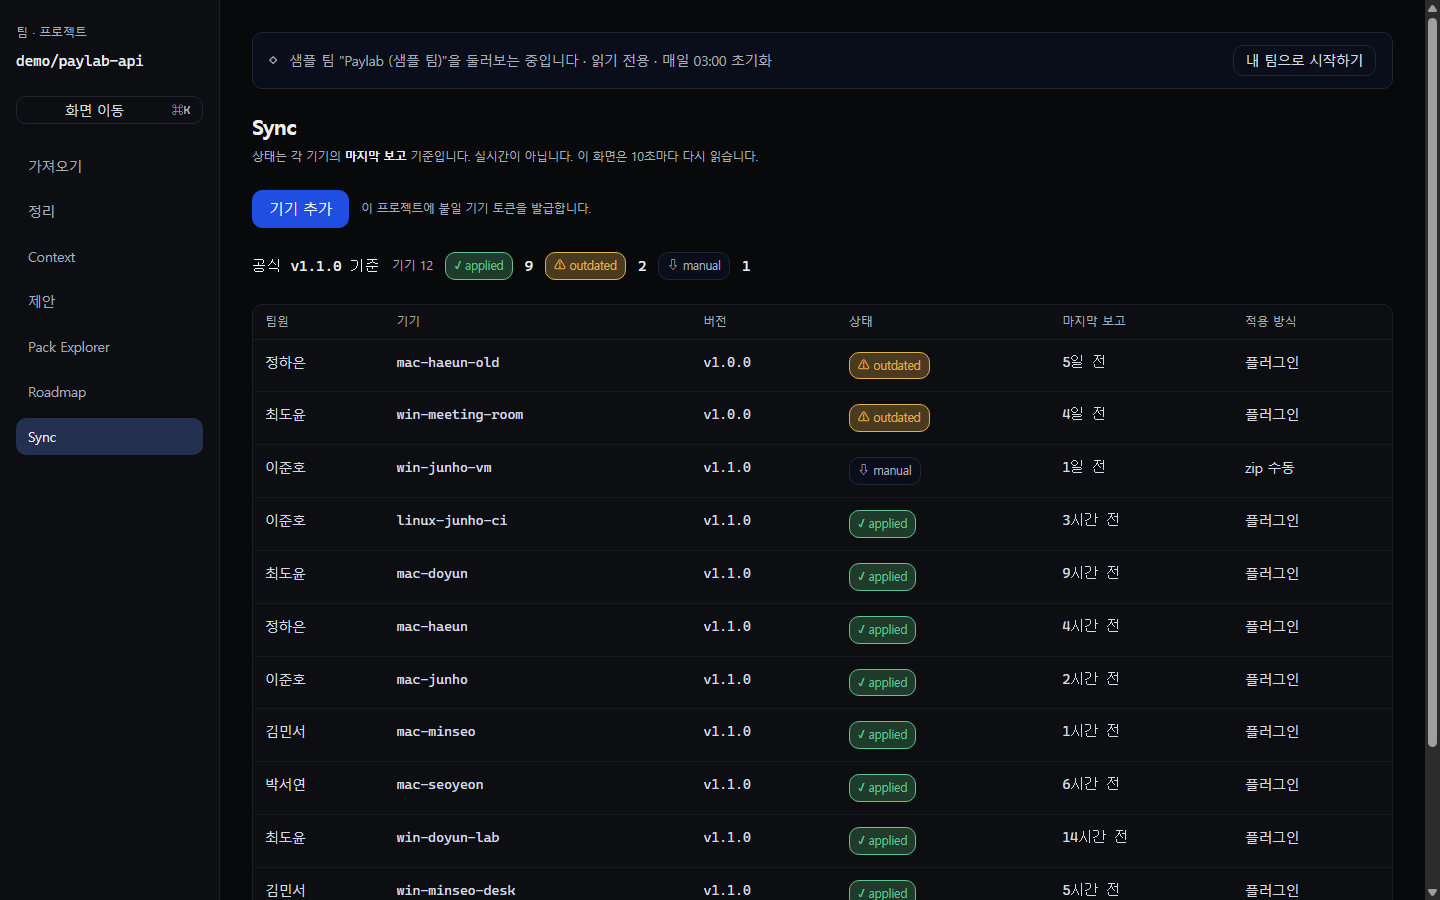
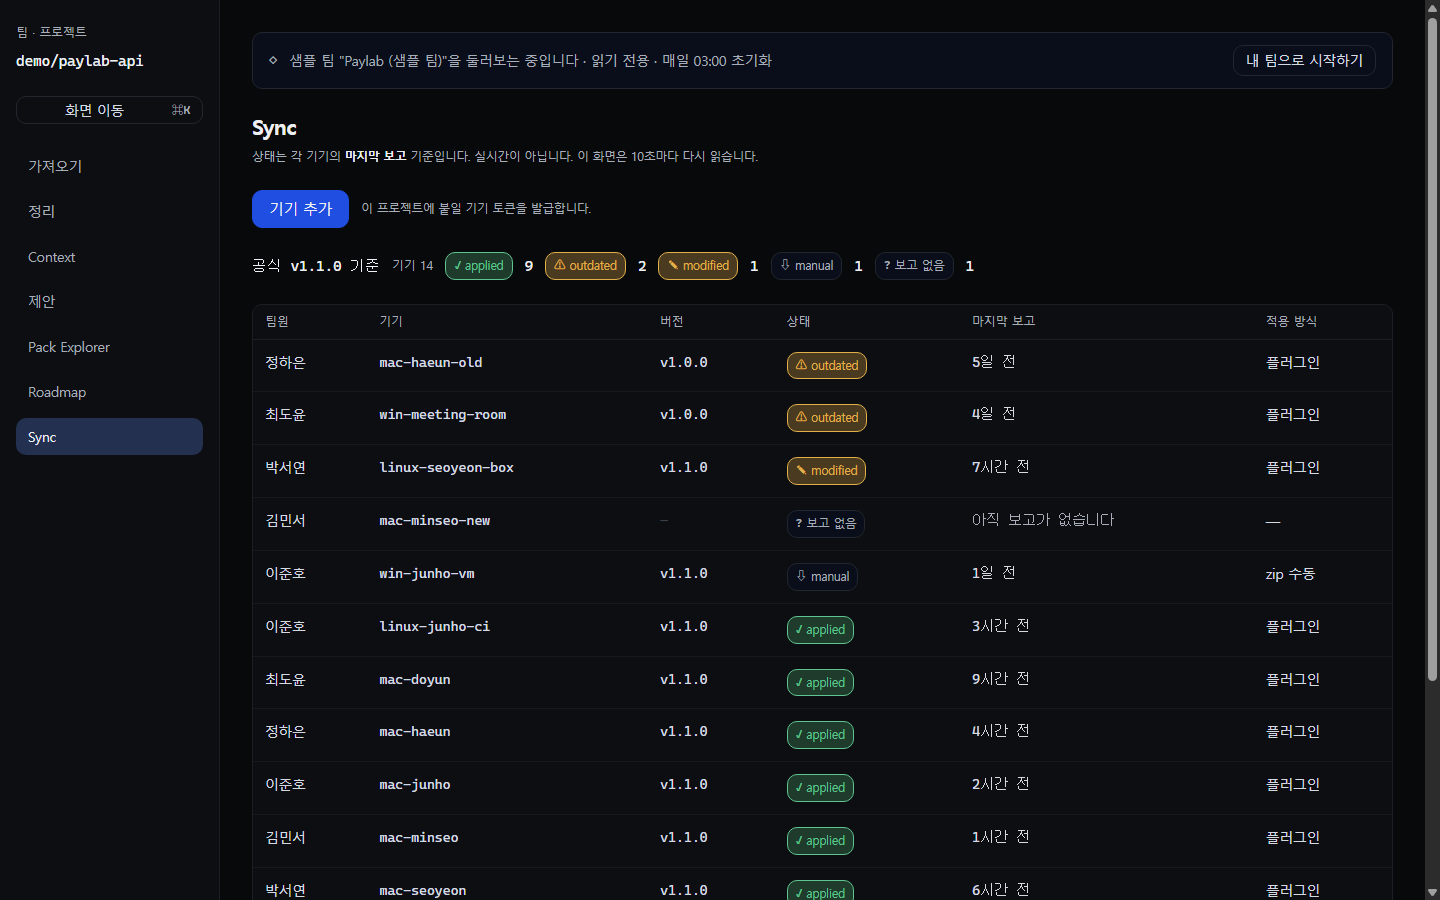
feat(demo): 화면 9 가 sync 상태 5종을 전부 보여 준다 (FINDINGS 162)
문제 — 데모의 Sync 화면이 `applied 9 · outdated 2 · manual 1` 셋만 그렸다.
남은 둘(`modified`·`unknown`)은 스키마·서버·화면이 이미 다 그릴 수 있는데
씨앗이 한 번도 그 길로 안 들어갔다. 죽은 것은 코드가 아니라 **픽스처**다.
그중 `modified`(공식 버전인데 파일이 손으로 고쳐졌다)는 이 제품이 무엇을
잡아 주는지를 한 줄로 말하는 상태인데, 심사위원이 보는 첫 표에 없었다.

바꾼 것 — `fixtures/seed/demo.json` 에 기기 두 줄. 12 → 14:
  · `linux-seoyeon-box` — `modified` · 공식 버전
  · `mac-minseo-new`    — `report: null` → 서버가 `unknown` 을 매긴다
기존 12줄은 안 건드렸다. 제품 코드 0줄 — 배선은 이미 살아 있었다
(`statusOfDevice()` · `NO_REPORT_STATUS` · `SYNC_CHIP`/`SYNC_MEANING`/`SYNC_APPLY`).

게이트 — `demo-guest.test.ts` 화면 9 시험이 넷을 잰다:
  ① 다섯 수(9·2·1·1·1) ② **`SYNC_STATUSES` 를 돌며 종류마다 0보다 큰가**
  ③ `unknown` 행은 버전·보고 시각이 둘 다 null ④ `modified` 행은 공식 버전
②가 본체다 — ①만 있으면 여섯째 상태가 붙는 날에도 초록이라 같은 구멍이 다시 난다.

문서 — SPEC §10.3 두 줄 · DESIGN_BRIEF §4 화면 9 의 예시(12행 → 14행).
덤으로 그 예시가 `outdated` 를 `v1.1.0` 이라 적고 있던 것을 `v1.0.0`(앞 버전)으로
고쳤다 — `outdated` 는 정의상 앞 버전이고 시험과 화면이 이미 그렇게 말한다.

잰 것: CI GREEN 전 층 (13:27) · 관통 1254검사 9단계 · apps/web 시험 858 → 860.

diff --git a/apps/web/test/demo-guest.test.ts b/apps/web/test/demo-guest.test.ts
@@ -1,7 +1,7 @@
 import type { PGlite } from '@electric-sql/pglite'
 import { afterEach, beforeEach, describe, expect, it } from 'vitest'
 
-import { AI_JOB_STATUSES } from '@contextops/schema'
+import { AI_JOB_STATUSES, SYNC_STATUSES } from '@contextops/schema'
 
 import { ACTOR_RULES } from '../src/lib/api/auth'
 import { DEMO_ENTRY_PATH, DEMO_GUEST_SUBJECT, DEMO_TENANT, demoBannerText } from '../src/lib/demo/tenant'
@@ -78,10 +78,10 @@ describe('데모 테넌트를 심으면', () => {
     seeded = await seedDemo(NOW)
   })
 
-  it('픽스처가 말한 만큼 들어간다 — 기기 12 · 보고 12 · 팀원 5', () => {
+  it('픽스처가 말한 만큼 들어간다 — 기기 14 · 보고 13 · 팀원 5', () => {
     const file = readDemoSeedFile()
     expect(seeded.deviceCount).toBe(file.devices.length)
-    expect(seeded.deviceCount).toBe(12)
+    expect(seeded.deviceCount).toBe(14)
     expect(seeded.memberCount).toBe(file.members.length)
     //  ⚠ 「보고한 기기 수」는 픽스처가 정한다 — 여기에 숫자를 또 적으면 갈라진다.
     expect(seeded.reportCount).toBe(file.devices.filter((d) => d.report !== null).length)
@@ -101,7 +101,7 @@ describe('데모 테넌트를 심으면', () => {
     expect(ACTOR_RULES.guest).toEqual({ maxRole: 'member', writes: false })
   })
 
-  it('화면 9 가 그릴 것이 있다 — applied 9 · outdated 2 · manual 1', async () => {
+  it('화면 9 가 그릴 것이 있다 — applied 9 · outdated 2 · manual 1 · modified 1 · unknown 1', async () => {
     const token = await guestToken()
     const data = await dataOf(await syncStatus(
       req('GET', `/api/v1/projects/${seeded.projectId}/sync-status`, { auth: token }),
@@ -109,10 +109,29 @@ describe('데모 테넌트를 심으면', () => {
     ))
     const rows = data.devices as { status: string; version: string | null; reported_at: string | null }[]
     const count = (status: string): number => rows.filter((r) => r.status === status).length
-    expect(rows).toHaveLength(12)
+    expect(rows).toHaveLength(14)
     expect(count('applied')).toBe(9)
     expect(count('outdated')).toBe(2)
     expect(count('manual')).toBe(1)
+    expect(count('modified')).toBe(1)
+    expect(count('unknown')).toBe(1)
+    //  🔴 **5종이 전부 화면에 선다** (FINDINGS 162 · loop/PROMPT.md ④2-B).
+    //  ★ 왜 위 다섯 줄로 안 끝내나 — 저 다섯은 **오늘의 수**라 `SYNC_STATUSES` 에 여섯째가
+    //    붙어도 그대로 초록이다. 종류를 표에서 세어야 「새 상태를 더했는데 데모에는
+    //    안 서는」 날 이 시험이 빨개진다. 종류가 늘면 픽스처에 한 줄을 더해라.
+    for (const status of SYNC_STATUSES) {
+      expect(count(status), `데모가 sync 상태 ${status} 를 한 번도 안 보여 준다`).toBeGreaterThan(0)
+    }
+    //  🔴 `unknown` 은 **한 번도 보고하지 않은 기기**다 — 버전도 시각도 없다.
+    //     여기에 기본값이 채워지면 「아직 아무것도 안 받은 기기」가 「낡은 기기」로 보인다.
+    for (const row of rows.filter((r) => r.status === 'unknown')) {
+      expect(row.version).toBeNull()
+      expect(row.reported_at).toBeNull()
+    }
+    //  🔴 `modified` 는 **버전은 공식인데 파일이 고쳐진** 기기다 (SYNC_MEANING).
+    for (const row of rows.filter((r) => r.status === 'modified')) {
+      expect(row.version).toBe(seeded.versions.official.semver)
+    }
     //  🔴 `outdated` 는 **앞 버전**을 보고한 기기다. 같은 버전을 보고했는데 outdated 면
     //     화면이 「무엇으로 맞춰야 하나」를 말할 수 없다.
     for (const row of rows.filter((r) => r.status === 'outdated')) {

diff --git a/apps/web/test/demo-reset.test.ts b/apps/web/test/demo-reset.test.ts
@@ -23,7 +23,7 @@ import { closeDb, dataOf, errorOf, freshDb, params, req, sessionJwt, TEST_JWT_SE
 //
 //  ★ 재는 것:
 //    ① 자물쇠 — `CRON_SECRET` 이 없거나 틀리면 **401** 이고 아무것도 안 심는다
-//    ② 리셋이 실제로 심는다 — 그 뒤 `/demo/session` 이 201 이고 화면 9 가 기기 12 를 본다
+//    ② 리셋이 실제로 심는다 — 그 뒤 `/demo/session` 이 201 이고 화면 9 가 기기 14 를 본다
 //    ③ 🔴 **두 번 돌려도 하나다** — 팀·기기·사람이 늘지 않는다 (지우기가 진짜로 지운다)
 //    ④ 지우기는 **데모 팀만** 지운다 — 옆 팀은 그대로다
 //    ⑤ 🔴 `project_id` 를 가진 표가 **전부** `PROJECT_SCOPED` 에 있다 — 새 표를 더한 사람이
@@ -95,7 +95,7 @@ describe('① 자물쇠 — CRON_SECRET', () => {
 })
 
 describe('② 리셋이 심는다', () => {
-  it('200 이고 수가 픽스처와 같다 · 그 뒤 /demo/session 이 201 이고 화면 9 가 기기 12 를 본다', async () => {
+  it('200 이고 수가 픽스처와 같다 · 그 뒤 /demo/session 이 201 이고 화면 9 가 기기 14 를 본다', async () => {
     const res = await reset(CRON_SECRET)
     expect(res.status).toBe(200)
     const data = await dataOf(res)

diff --git a/apps/web/src/lib/demo/seed-demo.ts b/apps/web/src/lib/demo/seed-demo.ts
@@ -29,7 +29,7 @@ import { DEMO_GUEST_SUBJECT, DEMO_TENANT } from './tenant'
 //      · `test/demo-guest.test.ts` · `scripts/dump-demo.tsx`
 //
 //  ★ 무엇을 만드나 — paylab 씨앗(`seed.ts`) 위에 **데모에만 있는 것** 넷을 얹는다:
-//    ① 팀원 5명과 그들의 소속 ② 발행 두 번(v1.0.0 → v1.1.0) ③ 기기 12대와 마지막 보고
+//    ① 팀원 5명과 그들의 소속 ② 발행 두 번(v1.0.0 → v1.1.0) ③ 기기 14대와 마지막 보고(`SYNC_STATUSES` 5종을 전부 한 번씩)
 //    ④ 진행 보고 6건. 항목·문서는 한 줄도 여기서 안 만든다 — 정본은 `seed.ts` 하나다.
 //
 //  🔴 **읽는 값은 `fixtures/seed/demo.json` 이고 여기서 Zod 로 판다.** 픽스처도 외부

diff --git a/docs/SPEC.md b/docs/SPEC.md
@@ -565,8 +565,8 @@ temp git repo 픽스처로: 정상 sync, modified 감지, hash 불일치 중단,
 - 발표는 B, 심사위원 셀프 체험은 A/B 선택 버튼.
 
 ### 10.3 시드(`fixtures/seed/demo.json`)
-팀 1, 프로젝트 1(+B면 5), 항목 27(goals.md 가 가진 전부 · 아래), 버전 v1.0~v1.2, Proposal 6(approved 4/rejected 1/submitted 1), conflicts 3 resolved + 1 open, devices 12(applied 9/outdated 2/manual 1), progress_events 8(M1 2/3 + 확정 후보, M2 1/3, M3 0), 로드맵 외 1.
-- 🔴 **지금 실제로 심기는 것**(`apps/web/src/lib/demo/seed-demo.ts` · 부르는 문은 `GET /cron/demo-reset` · 개발용은 `pnpm --filter web demo:db`): 팀원 5 + 게스트 1 · **항목 27**(초안 26 + 씨앗 질문 답변 1 — mission 1 · goal 3 · roadmap 3 · policy 8(답변 1 포함) · constraint 2 · architecture 5 · domain 1 · open_question 4) · 버전 v1.0.0→v1.1.0 · 제안 4(published 1/approved 1/rejected 1/submitted 1) · **devices 12(applied 9/outdated 2/manual 1)** · progress 8(로드맵 외 1). 예전 이 자리의 「항목 60 · progress 25」는 paylab 픽스처(§10.1)에 없는 수였다 — **항목의 정본은 픽스처 하나**이고 데모용으로 따로 지어내지 않는다 (지어내면 데모에서 본 것과 관통이 잰 것이 갈린다 · FINDINGS 119). 27 은 goals.md 에서 **문장 하나까지 역추적되는 전부**다(§2 표 3행 · §3 규칙 7 · §4 M1~M3 · §5 미결 4 · §6 용어 표 · §7 그림 5줄 · §1 제약 2). 더 늘리려면 `fixtures/paylab-docs/goals.md` 를 먼저 넓히고 `src/lib/demo/seed.ts` 의 표(`GOALS` · `MILESTONES` · `OPEN_QUESTIONS` · `ARCHITECTURE`)에 줄을 더한다. `open_question` 4 는 Pack 에 안 나간다(§4.1 partition) — 화면 5·4 에만 선다.
+팀 1, 프로젝트 1(+B면 5), 항목 27(goals.md 가 가진 전부 · 아래), 버전 v1.0~v1.2, Proposal 6(approved 4/rejected 1/submitted 1), conflicts 3 resolved + 1 open, devices 14(applied 9/outdated 2/manual 1/modified 1/unknown 1), progress_events 8(M1 2/3 + 확정 후보, M2 1/3, M3 0), 로드맵 외 1.
+- 🔴 **지금 실제로 심기는 것**(`apps/web/src/lib/demo/seed-demo.ts` · 부르는 문은 `GET /cron/demo-reset` · 개발용은 `pnpm --filter web demo:db`): 팀원 5 + 게스트 1 · **항목 27**(초안 26 + 씨앗 질문 답변 1 — mission 1 · goal 3 · roadmap 3 · policy 8(답변 1 포함) · constraint 2 · architecture 5 · domain 1 · open_question 4) · 버전 v1.0.0→v1.1.0 · 제안 4(published 1/approved 1/rejected 1/submitted 1) · **devices 14(applied 9/outdated 2/manual 1/modified 1/unknown 1 — `SYNC_STATUSES` 5종을 전부 한 번씩 · FINDINGS 162)** · progress 8(로드맵 외 1). 예전 이 자리의 「항목 60 · progress 25」는 paylab 픽스처(§10.1)에 없는 수였다 — **항목의 정본은 픽스처 하나**이고 데모용으로 따로 지어내지 않는다 (지어내면 데모에서 본 것과 관통이 잰 것이 갈린다 · FINDINGS 119). 27 은 goals.md 에서 **문장 하나까지 역추적되는 전부**다(§2 표 3행 · §3 규칙 7 · §4 M1~M3 · §5 미결 4 · §6 용어 표 · §7 그림 5줄 · §1 제약 2). 더 늘리려면 `fixtures/paylab-docs/goals.md` 를 먼저 넓히고 `src/lib/demo/seed.ts` 의 표(`GOALS` · `MILESTONES` · `OPEN_QUESTIONS` · `ARCHITECTURE`)에 줄을 더한다. `open_question` 4 는 Pack 에 안 나간다(§4.1 partition) — 화면 5·4 에만 선다.
 - ⚠ 이 파일이 담는 것은 **팀원·기기·보고·진행**뿐이다. 어느 팀인가(이름·slug·게스트 sub)는 `apps/web/src/lib/demo/tenant.ts` 에 있다 — 배너도 그 값을 읽어야 하는데 화면이 픽스처를 import 하면 데모 데이터가 배포 번들에 실린다. 제안은 대상 항목 id 가 코드에만 있어서 시드의 표(`DEMO_PROPOSALS`)에 산다.
 - 🔴 **리셋은 지우고 심는다** (`lib/demo/reset.ts`). `teams.slug` 가 전역 유일이고 FK 에 cascade 가 없어서, 팀 하나를 통째로 지우는 순서를 아는 자리가 `lib/demo/teardown.ts` 하나다 — `project_id` 를 가진 표의 목록(`PROJECT_SCOPED`)이 정본이고 시험이 스키마와 대조한다(새 표를 빠뜨리면 빨개진다). 제품에 「팀 삭제」 문은 없다 — 그 함수를 라우트에 걸지 마라.
 

diff --git a/docs/feedback/FINDINGS.md b/docs/feedback/FINDINGS.md
@@ -33,6 +33,26 @@
 > Supabase · GitHub 와 나란히 놓고 본 뒤 고른 것. 고장이 아니라 「있으면 점수가 갈리는 것」이라 전부 [격차]이고, INBOX 순서
 > 3(126) → 4(구멍 → 격차) 뒤에 **한 바퀴에 하나**다. 주인은 전부 PLAN **P4 둘째 행**(웹 화면 9 · 게스트 데모 · 랜딩 v1).
 
+### 162. **데모가 sync 상태 5종 중 3종만 보여 준다** — `modified`·`unknown` 은 코드에만 산다   [구멍]
+- **증상**: 화면 9(Sync)의 칩 줄에 `applied 9 · outdated 2 · manual 1` 셋만 선다. 남은 둘은 **화면·서버·스키마가 이미 다 그릴 수 있는데**
+  데모 씨앗이 한 번도 안 만든다: `modified`(버전은 공식인데 파일이 로컬에서 고쳐졌다)와 `unknown`(그 기기에서 아직 보고가 안 왔다).
+  ⚠ 그중 `modified` 는 **이 제품이 무엇을 잡아 주는지**를 한 줄로 말하는 상태다 — 심사위원이 첫 화면에서 보는 표에 그게 없다.
+- **근거**: `.ci/shots/screen-sync.png` (110바퀴 · 관통이 찍은 진짜 브라우저) — 칩 3개 · 12행.
+  `fixtures/seed/demo.json` 의 `devices` 12줄이 `applied`·`outdated`·`manual` 뿐이고, `report: null`(= `unknown`) 줄이 0개다.
+  ⚠ **죽은 것은 코드가 아니라 픽스처다** — 배선은 다 살아 있다: `SYNC_STATUSES` 5종 · `SYNC_CHIP`/`SYNC_MEANING`/`SYNC_APPLY` 5줄 ·
+  `statusOfDevice()` 가 보고 없는 기기에 `NO_REPORT_STATUS` 를 매기고 · `DeviceTable` 이 그 행의 버전 칸에 「—」, 시각 칸에
+  「아직 보고가 없습니다」를 그린다. 아무도 그 길로 안 들어갈 뿐이다.
+- **정본**: `fixtures/seed/demo.json` (`devices`) · `docs/SPEC.md` §10.3 · `docs/DESIGN_BRIEF.md` §4 화면 9
+- **고칠 방향**: 픽스처에 두 줄. 수를 화면 코드나 시험에 손으로 적지 말고 **종류를 표에서 세어라** —
+  「오늘 5개」를 재는 시험은 여섯째가 붙는 날에도 초록이다.
+- **상태**: ✅ `CYCLE110` (110바퀴) — 기기 **12 → 14**: `linux-seoyeon-box`(`modified` · 공식 버전) ·
+  `mac-minseo-new`(`report: null` → `unknown`). 기존 12줄은 **안 건드렸다** (수가 바뀌면 SPEC §10.3 과 갈린다).
+  🔴 **게이트로 올렸다** — `demo-guest.test.ts` 화면 9 시험이 ① 다섯 수를 재고 ② **`SYNC_STATUSES` 를 돌며 종류마다 0보다 큰지**를
+  재고 ③ `unknown` 행은 버전·보고 시각이 **둘 다 `null`** 인지 ④ `modified` 행은 버전이 **공식**인지를 잰다.
+  ★ ②가 본체다 — ①만 있으면 `SYNC_STATUSES` 에 여섯째가 붙어도 초록이라 같은 구멍이 다시 난다.
+  덤으로 `DESIGN_BRIEF` §4 화면 9 의 예시가 `outdated` 를 **`v1.1.0`** 이라고 적고 있던 것을 `v1.0.0`(앞 버전)으로 고쳤다 —
+  `outdated` 는 정의상 앞 버전이고, 시험(`row.version === previous.semver`)과 화면이 이미 그렇게 말하고 있었다.
+
 ### 160. **앱 껍데기가 375px 에서 내비를 안 접는다** — 본문 칸이 76px 로 눌린다   [격차]
 - **증상**: 앱 화면(내비가 있는 모든 화면)을 375px 로 보면 좌측 내비가 `--nav-w: 220px` 를 그대로 차지해서
   `.main` 이 140px · `.main-inner` 가 **76px** 로 눌린다. 그 폭에 안 들어가는 것이 전부 밖으로 밀려

diff --git a/docs/DESIGN_BRIEF.md b/docs/DESIGN_BRIEF.md
@@ -306,7 +306,8 @@
 
 ### 화면 9 — Sync `…/sync`
 - 표: 팀원 | 기기 | 버전 | 상태 chip | 마지막 보고 | 적용 방식(플러그인/zip 수동). 정렬 기본: 상태(outdated 먼저).
-- 예시 12행: applied 9 / outdated 2 (`v1.1.0`, `4일 전`) / manual 1.
+- 예시 14행: applied 9 / outdated 2 (`v1.0.0` — **앞 버전이다**, `4일 전`) / manual 1 / modified 1 / unknown 1.
+  🔴 **5종이 전부 한 번씩 선다** — `unknown` 행은 버전 칸이 「—」이고 마지막 보고 칸이 「아직 보고가 없습니다」다 (FINDINGS 162).
 - 상단 안내: `상태는 각 기기의 마지막 보고 기준입니다. 실시간이 아닙니다.` 툴팁에 `applied = 마지막 보고 시점의 파일 해시가 공식 manifest와 모두 일치`.
 - 요약 맨 앞에 **「그래서 무엇으로 맞춰야 하나」** — `공식 v1.2.0 기준` (화면 8 의 요약 타일과 같은 낱말 · FINDINGS 118).
   공식이 없으면 `아직 발행된 버전이 없습니다.`(화면 5 와 같은 문장) · 버전 표를 못 읽었으면 그 칸을 비운다 — `v—` 를 지어내지 않는다.
